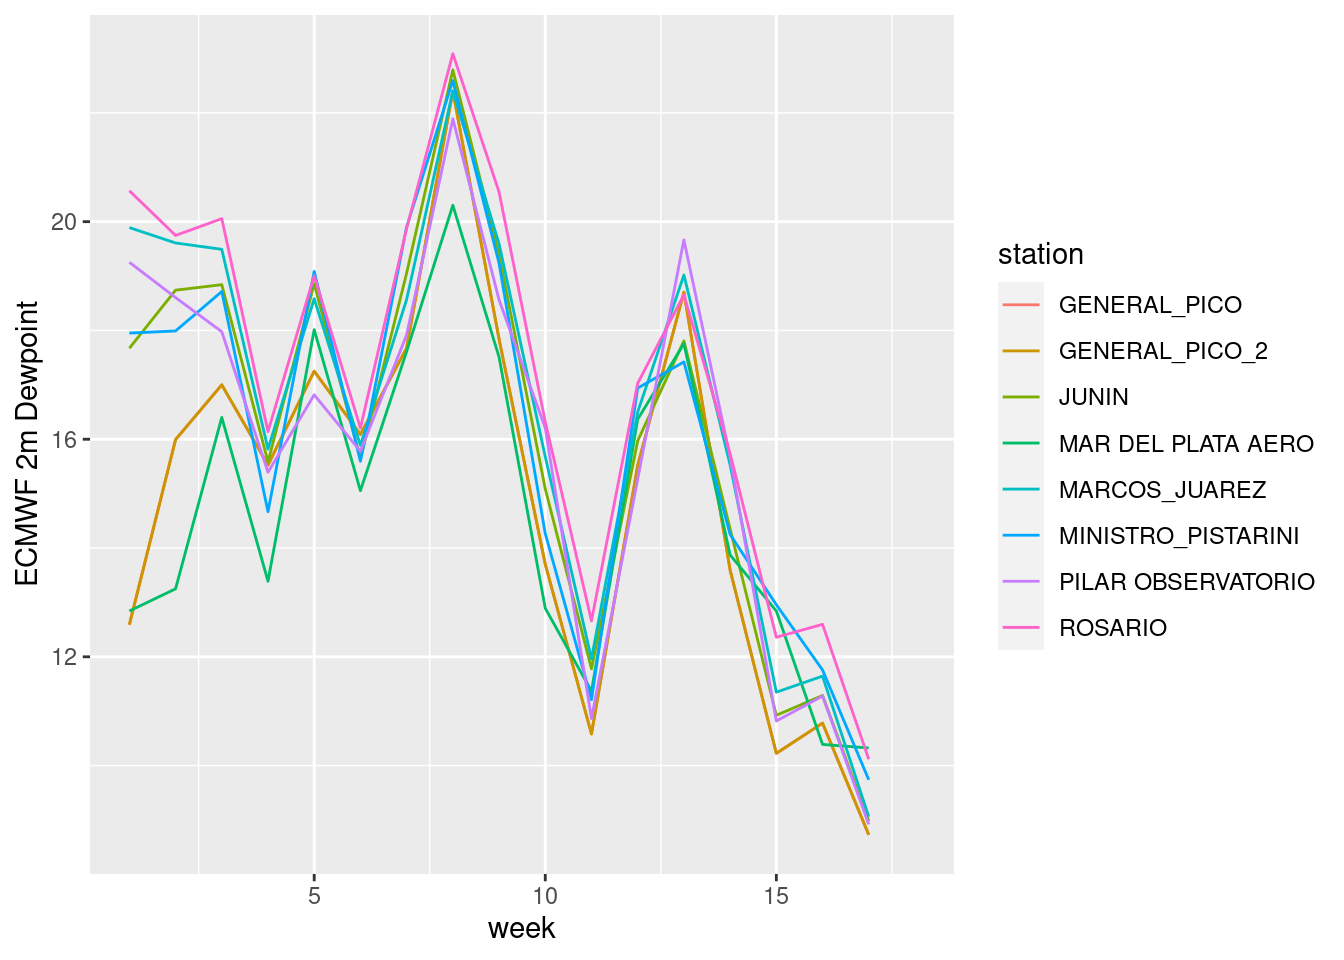
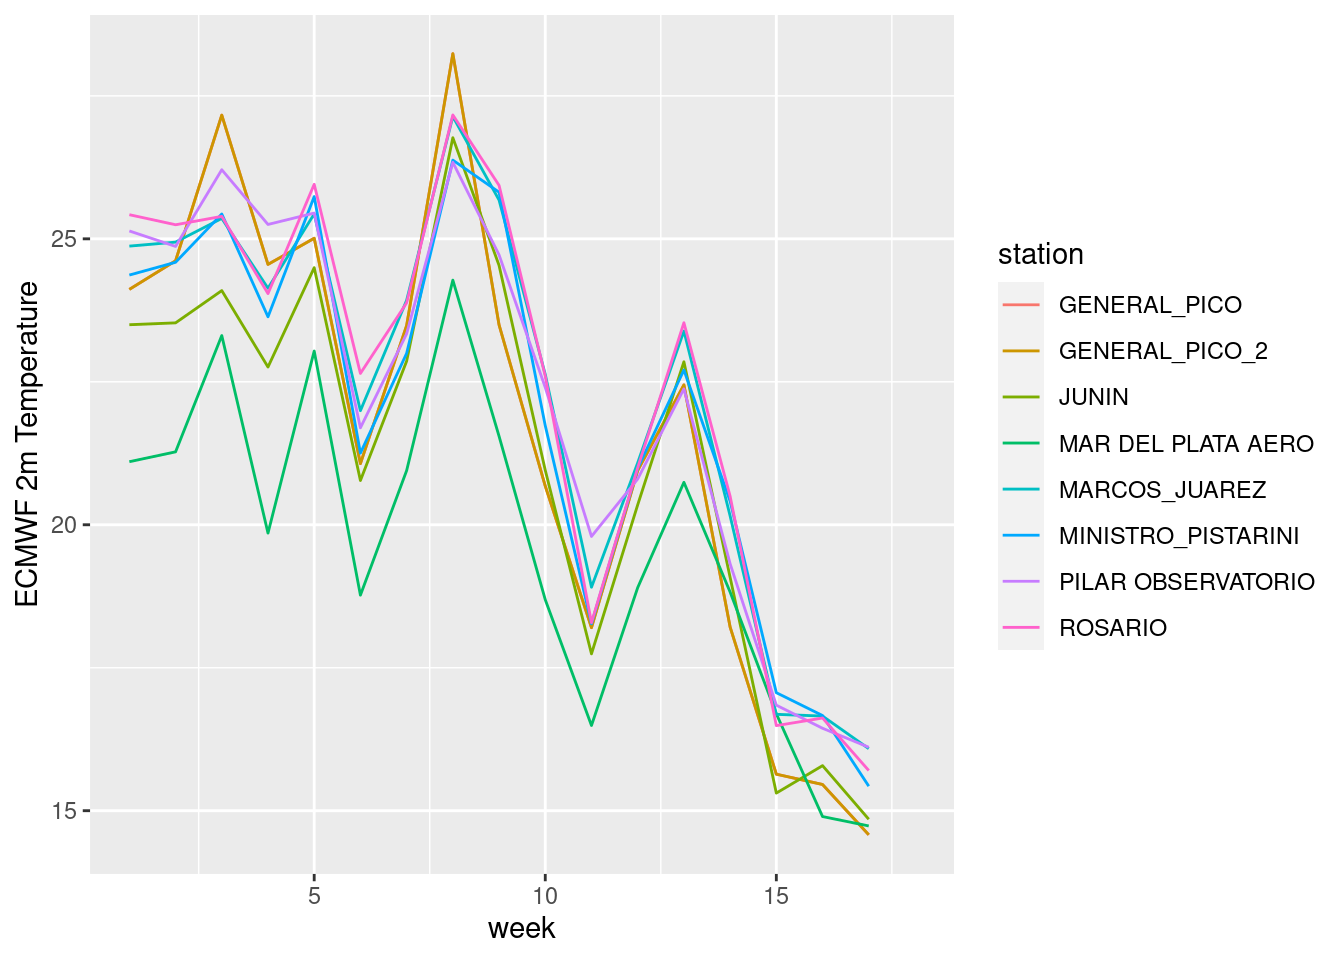
Build site.

diff --git a/docs/past-data_retrieval.html b/docs/past-data_retrieval.html
@@ -493,16 +493,16 @@ This reproducible <a href="http://rmarkdown.rstudio.com">R Markdown</a> analysis
 <div class="panel panel-default">
 <div class="panel-heading">
 <p class="panel-title">
-<a data-toggle="collapse" data-parent="#workflowr-checks" href="#strongRepositoryversionstrongahrefhttpsgithubcomfranframmetdatatreea23c3c2759abae33ed30c3c31f6c4cce982d31c9targetblanka23c3c2a"> <span class="glyphicon glyphicon-ok text-success" aria-hidden="true"></span> <strong>Repository version:</strong> <a href="https://github.com/franfram/met_data/tree/a23c3c2759abae33ed30c3c31f6c4cce982d31c9" target="_blank">a23c3c2</a> </a>
+<a data-toggle="collapse" data-parent="#workflowr-checks" href="#strongRepositoryversionstrongahrefhttpsgithubcomfranframmetdatatree9217572c02f60726e5739dc800a922be30ed8b23targetblank9217572a"> <span class="glyphicon glyphicon-ok text-success" aria-hidden="true"></span> <strong>Repository version:</strong> <a href="https://github.com/franfram/met_data/tree/9217572c02f60726e5739dc800a922be30ed8b23" target="_blank">9217572</a> </a>
 </p>
 </div>
[2 lines of base64/hex data omitted]
 <div class="panel-body">
 <p>
 Great! You are using Git for version control. Tracking code development and connecting the code version to the results is critical for reproducibility.
 </p>
 <p>
-The results in this page were generated with repository version <a href="https://github.com/franfram/met_data/tree/a23c3c2759abae33ed30c3c31f6c4cce982d31c9" target="_blank">a23c3c2</a>. See the <em>Past versions</em> tab to see a history of the changes made to the R Markdown and HTML files.
+The results in this page were generated with repository version <a href="https://github.com/franfram/met_data/tree/9217572c02f60726e5739dc800a922be30ed8b23" target="_blank">9217572</a>. See the <em>Past versions</em> tab to see a history of the changes made to the R Markdown and HTML files.
 </p>
 <p>
 Note that you need to be careful to ensure that all relevant files for the analysis have been committed to Git prior to generating the results (you can use <code>wflow_publish</code> or <code>wflow_git_commit</code>). workflowr only checks the R Markdown file, but you know if there are other scripts or data files that it depends on. Below is the status of the Git repository when the results were generated:
@@ -554,6 +554,40 @@ Message
 Rmd
 </td>
 <td>
+<a href="https://github.com/franfram/met_data/blob/9217572c02f60726e5739dc800a922be30ed8b23/analysis/past-data_retrieval.Rmd" target="_blank">9217572</a>
+</td>
+<td>
+franfram
+</td>
+<td>
+2021-09-02
+</td>
+<td>
+wflow_publish("analysis/past-data_retrieval.Rmd")
+</td>
+</tr>
+<tr>
+<td>
+html
+</td>
+<td>
+<a href="https://rawcdn.githack.com/franfram/met_data/e1564f41e3708542f66daee372959cee0d352611/docs/past-data_retrieval.html" target="_blank">e1564f4</a>
+</td>
+<td>
+franfram
+</td>
+<td>
+2021-09-02
+</td>
+<td>
+Build site.
+</td>
+</tr>
+<tr>
+<td>
+Rmd
+</td>
+<td>
 <a href="https://github.com/franfram/met_data/blob/a23c3c2759abae33ed30c3c31f6c4cce982d31c9/analysis/past-data_retrieval.Rmd" target="_blank">a23c3c2</a>
 </td>
 <td>
@@ -593,6 +627,7 @@ wflow_publish(c("analysis/past-data_retrieval.Rmd", "analysis/_site.yml"))
 </ul>
 <div id="data-retrieval" class="section level3">
 <h3>Data retrieval</h3>
+<pre class="r"><code>options(warn = -1)</code></pre>
 </div>
 <div id="import-grib-data-as-n-d-labeled-arrays-then-save-as-.csv" class="section level3">
 <h3>Import grib data as N-D labeled arrays, then save as .csv</h3>
@@ -697,8 +732,44 @@ plot_temp &lt;- metdata_2017_weekly %&gt;%
   geom_line(aes(x = week, y = t2m_wmean, color = station)) +
   labs(y = &quot;ECMWF 2m Temperature&quot;)
 )</code></pre>
-<pre><code>Warning: Removed 16 row(s) containing missing values (geom_path).</code></pre>
-<p><img src="figure/past-data_retrieval.Rmd/unnamed-chunk-4-1.png" width="672" style="display: block; margin: auto;" /></p>
+<p><img src="figure/past-data_retrieval.Rmd/unnamed-chunk-5-1.png" width="672" style="display: block; margin: auto;" /></p>
+<p>
+<button type="button" class="btn btn-default btn-xs btn-workflowr btn-workflowr-fig" data-toggle="collapse" data-target="#fig-unnamed-chunk-5-1">
+Past versions of unnamed-chunk-5-1.png
+</button>
+</p>
+<div id="fig-unnamed-chunk-5-1" class="collapse">
+<div class="table-responsive">
+<table class="table table-condensed table-hover">
+<thead>
+<tr>
+<th>
+Version
+</th>
+<th>
+Author
+</th>
+<th>
+Date
+</th>
+</tr>
+</thead>
+<tbody>
+<tr>
+<td>
+<a href="https://github.com/franfram/met_data/blob/e1564f41e3708542f66daee372959cee0d352611/docs/figure/past-data_retrieval.Rmd/unnamed-chunk-5-1.png" target="_blank">e1564f4</a>
+</td>
+<td>
+franfram
+</td>
+<td>
+2021-09-02
+</td>
+</tr>
+</tbody>
+</table>
+</div>
+</div>
 </div>
 <div id="dewpoint" class="section level4">
 <h4>Dewpoint</h4>
@@ -708,8 +779,44 @@ plot_temp &lt;- metdata_2017_weekly %&gt;%
   geom_line(aes(x = week, y = d2m_wmean, color = station)) +
   labs(y = &quot;ECMWF 2m Dewpoint&quot;)
 )</code></pre>
-<pre><code>Warning: Removed 16 row(s) containing missing values (geom_path).</code></pre>
-<p><img src="figure/past-data_retrieval.Rmd/unnamed-chunk-5-1.png" width="672" style="display: block; margin: auto;" /></p>
+<p><img src="figure/past-data_retrieval.Rmd/unnamed-chunk-6-1.png" width="672" style="display: block; margin: auto;" /></p>
+<p>
+<button type="button" class="btn btn-default btn-xs btn-workflowr btn-workflowr-fig" data-toggle="collapse" data-target="#fig-unnamed-chunk-6-1">
+Past versions of unnamed-chunk-6-1.png
+</button>
+</p>
+<div id="fig-unnamed-chunk-6-1" class="collapse">
+<div class="table-responsive">
+<table class="table table-condensed table-hover">
+<thead>
+<tr>
+<th>
+Version
+</th>
+<th>
+Author
+</th>
+<th>
+Date
+</th>
+</tr>
+</thead>
+<tbody>
+<tr>
+<td>
+<a href="https://github.com/franfram/met_data/blob/e1564f41e3708542f66daee372959cee0d352611/docs/figure/past-data_retrieval.Rmd/unnamed-chunk-6-1.png" target="_blank">e1564f4</a>
+</td>
+<td>
+franfram
+</td>
+<td>
+2021-09-02
+</td>
+</tr>
+</tbody>
+</table>
+</div>
+</div>
 </div>
 <div id="total-precipitation" class="section level4">
 <h4>Total precipitation</h4>
@@ -719,8 +826,7 @@ plot_temp &lt;- metdata_2017_weekly %&gt;%
   geom_line(aes(x = week, y = tp_wmean, color = station)) +
   labs(y = &quot;ECMWF Total Precipitation&quot;)
 )</code></pre>
-<pre><code>Warning: Removed 16 row(s) containing missing values (geom_path).</code></pre>
-<p><img src="figure/past-data_retrieval.Rmd/unnamed-chunk-6-1.png" width="672" style="display: block; margin: auto;" /></p>
+<p><img src="figure/past-data_retrieval.Rmd/unnamed-chunk-7-1.png" width="672" style="display: block; margin: auto;" /></p>
 <br>
 <p>
 <button type="button" class="btn btn-default btn-workflowr btn-workflowr-sessioninfo" data-toggle="collapse" data-target="#workflowr-sessioninfo" style="display: block;">
